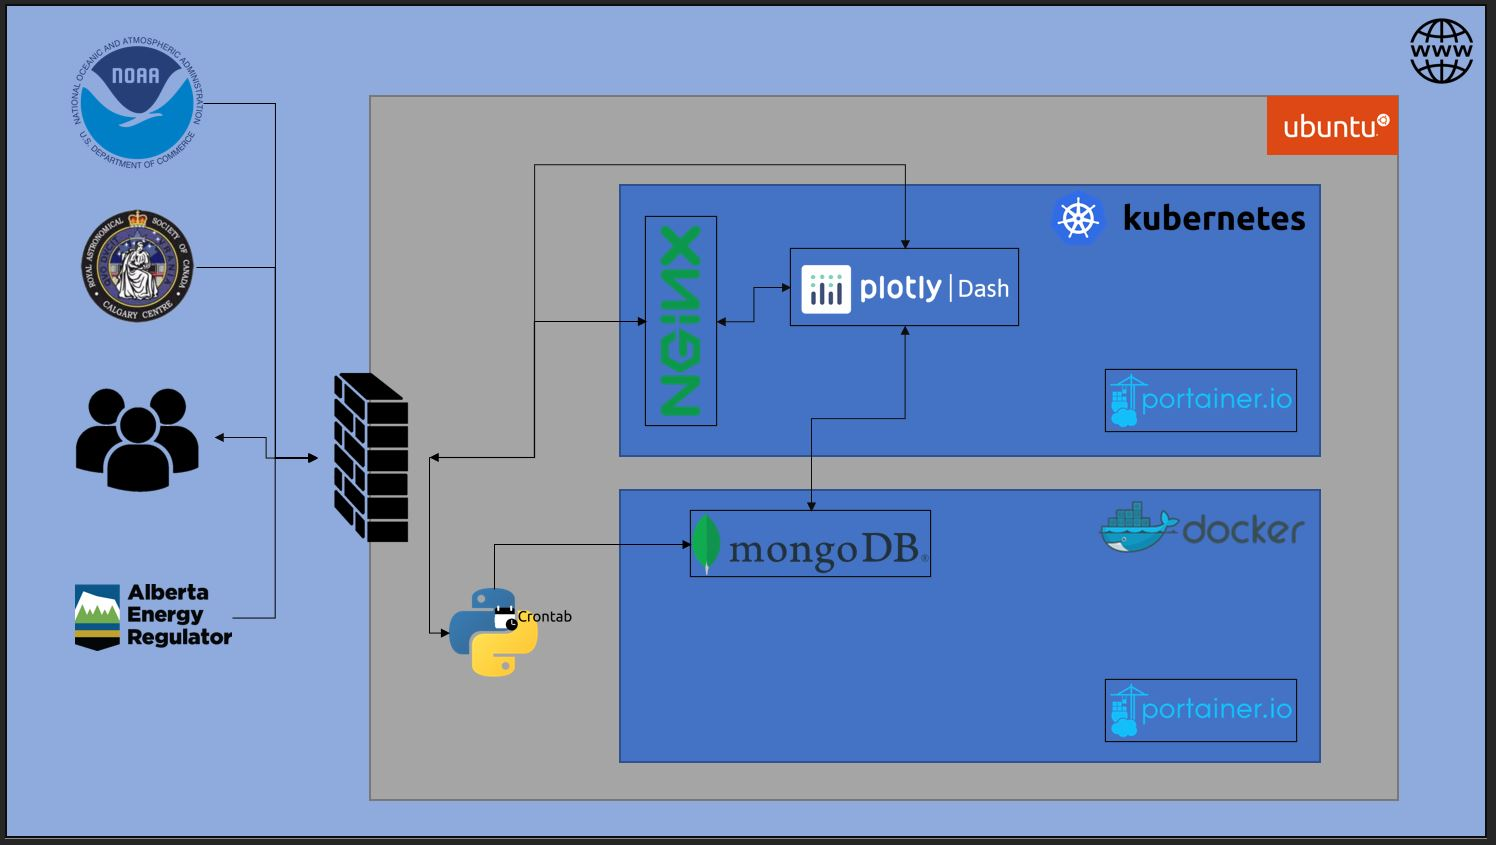
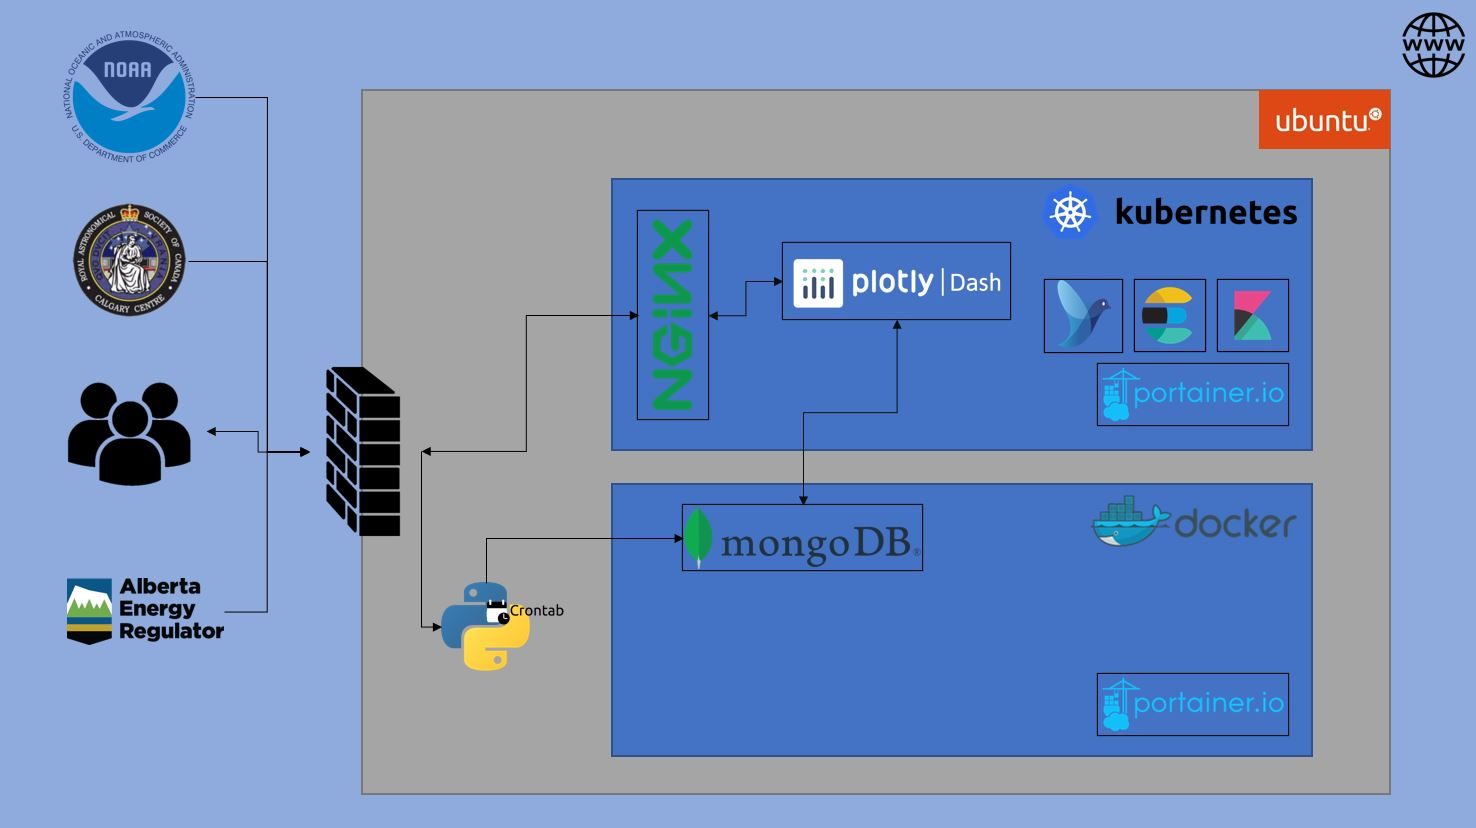
Improvements to code and info

Changed region(s): [[0.0, 0.0, 1.0, 1.0], [0.2805, 0.6944, 0.4051, 0.8152], [0.4051, 0.3623, 0.4363, 0.3925]]

diff --git a/app/apps/architecture.py b/app/apps/architecture.py
@@ -28,12 +28,15 @@ layout = html.Div([
             dbc.Col(html.Div([
                 dbc.Card([
                     dbc.CardBody([
-                        html.H4("Server Elements:", className='card-text'),
+                        html.H4("Tech Stack", className='card-text'),
                         html.Li("Local Ubuntu Server", className='card-text'),
-                        html.Li("MongoDB database runs in Docker", className='card-text'),
-                        html.Li("Kubernetes is used to orchestrate the webapp", className='card-text'),
-                        html.Li("NGINX reverse proxy is used to manage access to the webapp", className='card-text'),
-                        html.Li("Portainer is used to manage containers in Docker and Kubernetes", className='card-text'),
+                        html.Li("Kubernetes", className='card-text'),
+                        html.Li("Docker", className='card-text'),
+                        html.Li("NGINX", className='card-text'),                        
+                        html.Li("MongoDB", className='card-text'),
+                        html.Li("Plotly Dash", className='card-text'),
+                        html.Li("Elasticsearch, Fluentd, Kibana (EFK)", className='card-text'),
+                        html.Li("Portainer", className='card-text'),
                     ]),
                 ], className='card')
             ],style = CONTENT_STYLE)),
@@ -42,7 +45,7 @@ layout = html.Div([
             dbc.Col(html.Div([
                 dbc.Card([
                     dbc.CardBody([
-                        html.H4("Data Pipeline:", className='card-text'),
+                        html.H4("Data Pipeline", className='card-text'),
                         html.Li("NOAA and RASC Calgary feed data to the Aurora Dashboard in real-time (refresh rate of 1 min)", className='card-text'),
                         html.Li("AER provides daily data in text files that go through an ETL process and into a MongoDB database using Python scripts", className='card-text'),
                         html.Li("MongoDB is used to feed the Explorapp Dashboard directly instead of fully relying on Pandas", className='card-text'),
@@ -55,15 +58,13 @@ layout = html.Div([
             dbc.Col(html.Div([
                 dbc.Card([
                     dbc.CardBody([
-                        html.H4("Future Improvements:", className='card-text'),
+                        html.H4("Future Improvements", className='card-text'),
                         html.Li("Refactor code to split into layouts, functions, style, etc. Code begins to get messy when using a broken by app approach", className='card-text'),
-                        html.Li("Create views at the Database level to improve queries/code", className='card-text'),
                         html.Li("Automate more the current CI/CD process", className='card-text'),
-                        html.Li("Evaluate using Airflow for pipelines", className='card-text'),
                         html.Li("Evaluate moving Python scripts into serverless functions", className='card-text'),
-                        html.Li("Evaluate moving database into cluster and implementing Longhorn or equivalent", className='card-text'),
+                        html.Li("Evaluate moving database into cluster", className='card-text'),
                         html.Li("Evaluate implementing FastAPI", className='card-text'),
-                        html.Li("Evaluate using a pico cluster to test and enable High Availability", className='card-text'),
+                        html.Li("Evaluate using 3 node cluster to test and enable High Availability", className='card-text'),
                         html.Li("Fine tune design and add more datasets to existing dashboards", className='card-text'),                        
                         html.P(" ", className='card-text'),
                         ], className='card-body')

diff --git a/app/apps/explorapp.py b/app/apps/explorapp.py
@@ -15,7 +15,7 @@ import datetime
 
 from app import app
 
-client = pymongo.MongoClient("mongodb://172.17.0.3:27017/")
+client = pymongo.MongoClient("mongodb://172.17.0.2:27017/")
 
 mapbox_access_token = open("mapbox").read()
 
